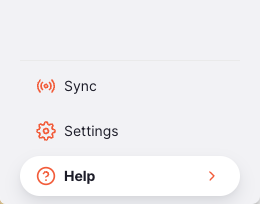
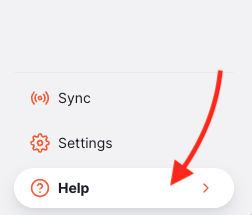
updated documentation

diff --git a/content/docs/help/contact_us.md b/content/docs/help/contact_us.md
@@ -17,11 +17,11 @@ The contact form allows you to reach out to us with any feedback or support requ
 
 ## Viewing the contact form
 
-To view the contact form, go to `Help` in the lower section of the panel:
+To view the contact form, go to `Help` in the lower section of the navigation panel:
 
 ![Help: nav](/docs/help/images/help_nav.png)
 
-You will see the contact form and are required to choose the reason for contacting us:
+You will see the contact form and are required to choose the reason for contacting us. Clicking on the dropdown will show you the type of requests:
 
 ![Help: reason](/docs/help/images/contact_form_reason.png)
 
@@ -29,6 +29,6 @@ Fill out the rest of the form accordingly:
 
 ![Help: body](/docs/help/images/contact_form_body.png)
 
-Once the form has been filled out, the send button can now be clicked. Proceed to clicking send once satisfied with your message to us.
+Once the form has been filled out, the send button can now be clicked. Proceed to click send once satisfied with your message to us:
 
 ![Help: send](/docs/help/images/contact_form_send.png)

diff --git a/content/docs/help/_index.md b/content/docs/help/_index.md
@@ -5,6 +5,6 @@ date = 2025-01-06T11:45:00+00:00
 updated = 2025-01-06T11:45:00+00:00
 template = "docs/section.html"
 sort_by = "weight"
-weight = 70
+weight = 75
 draft = false
 +++
